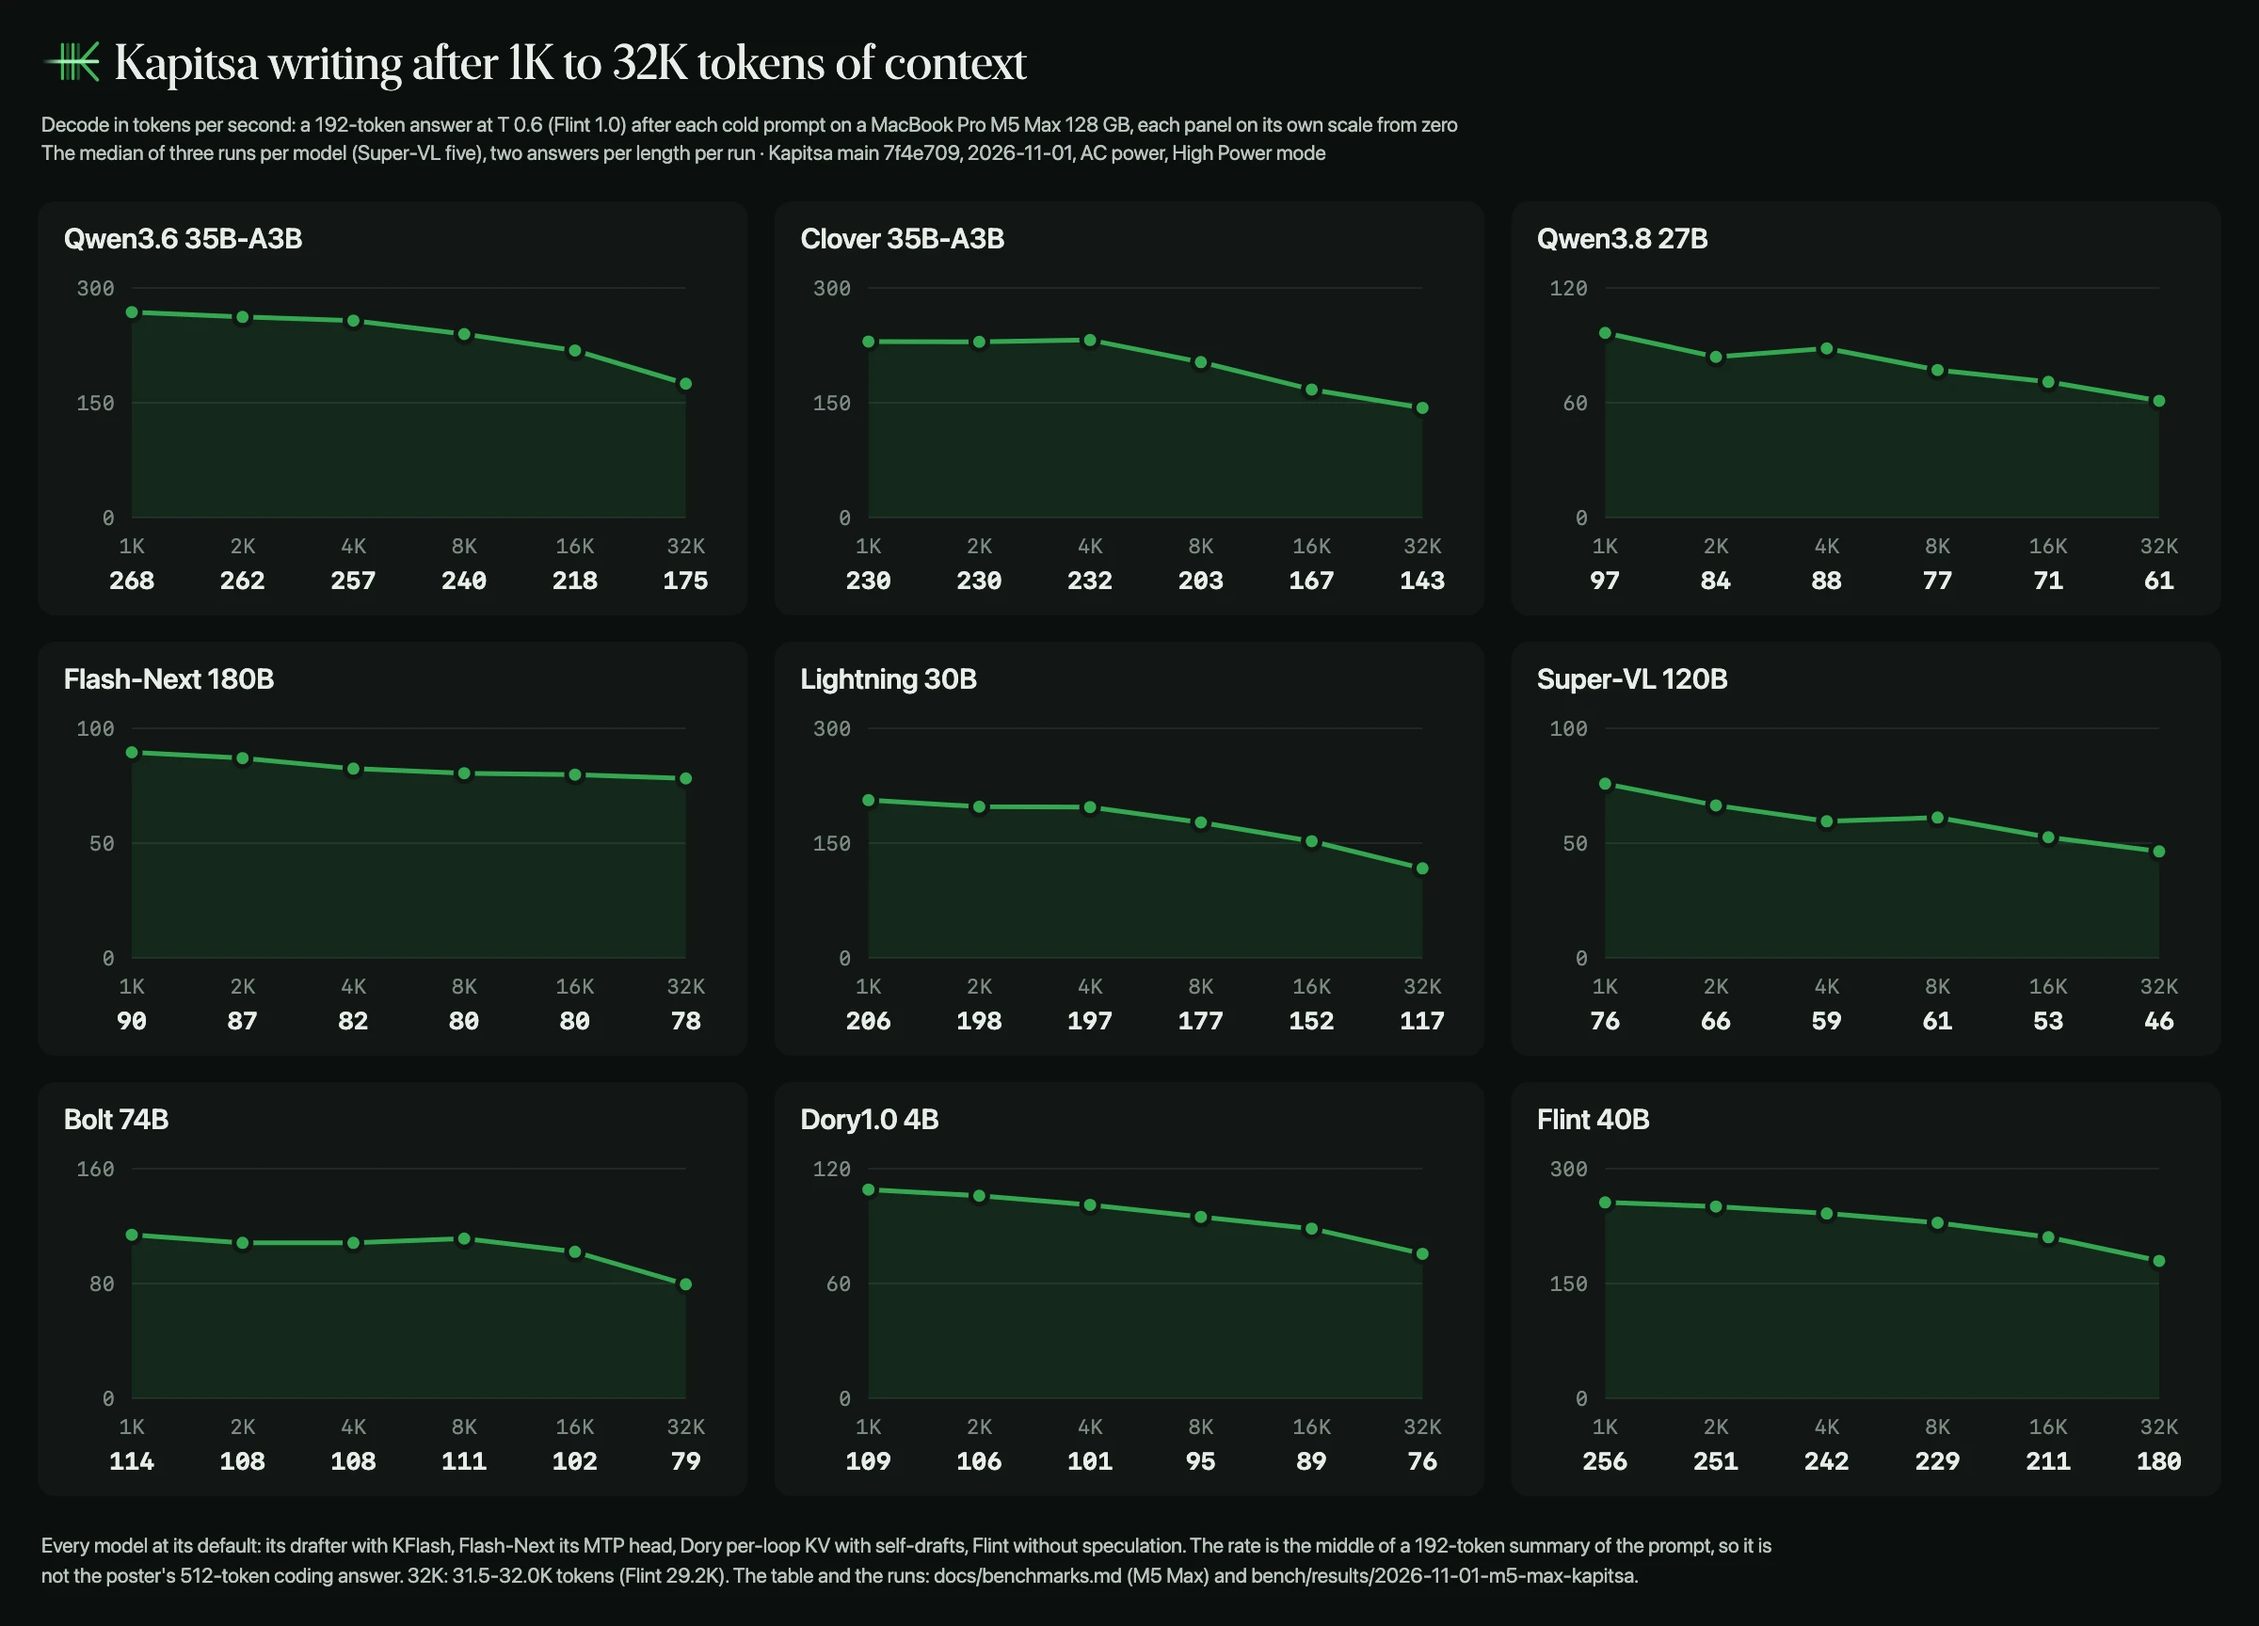
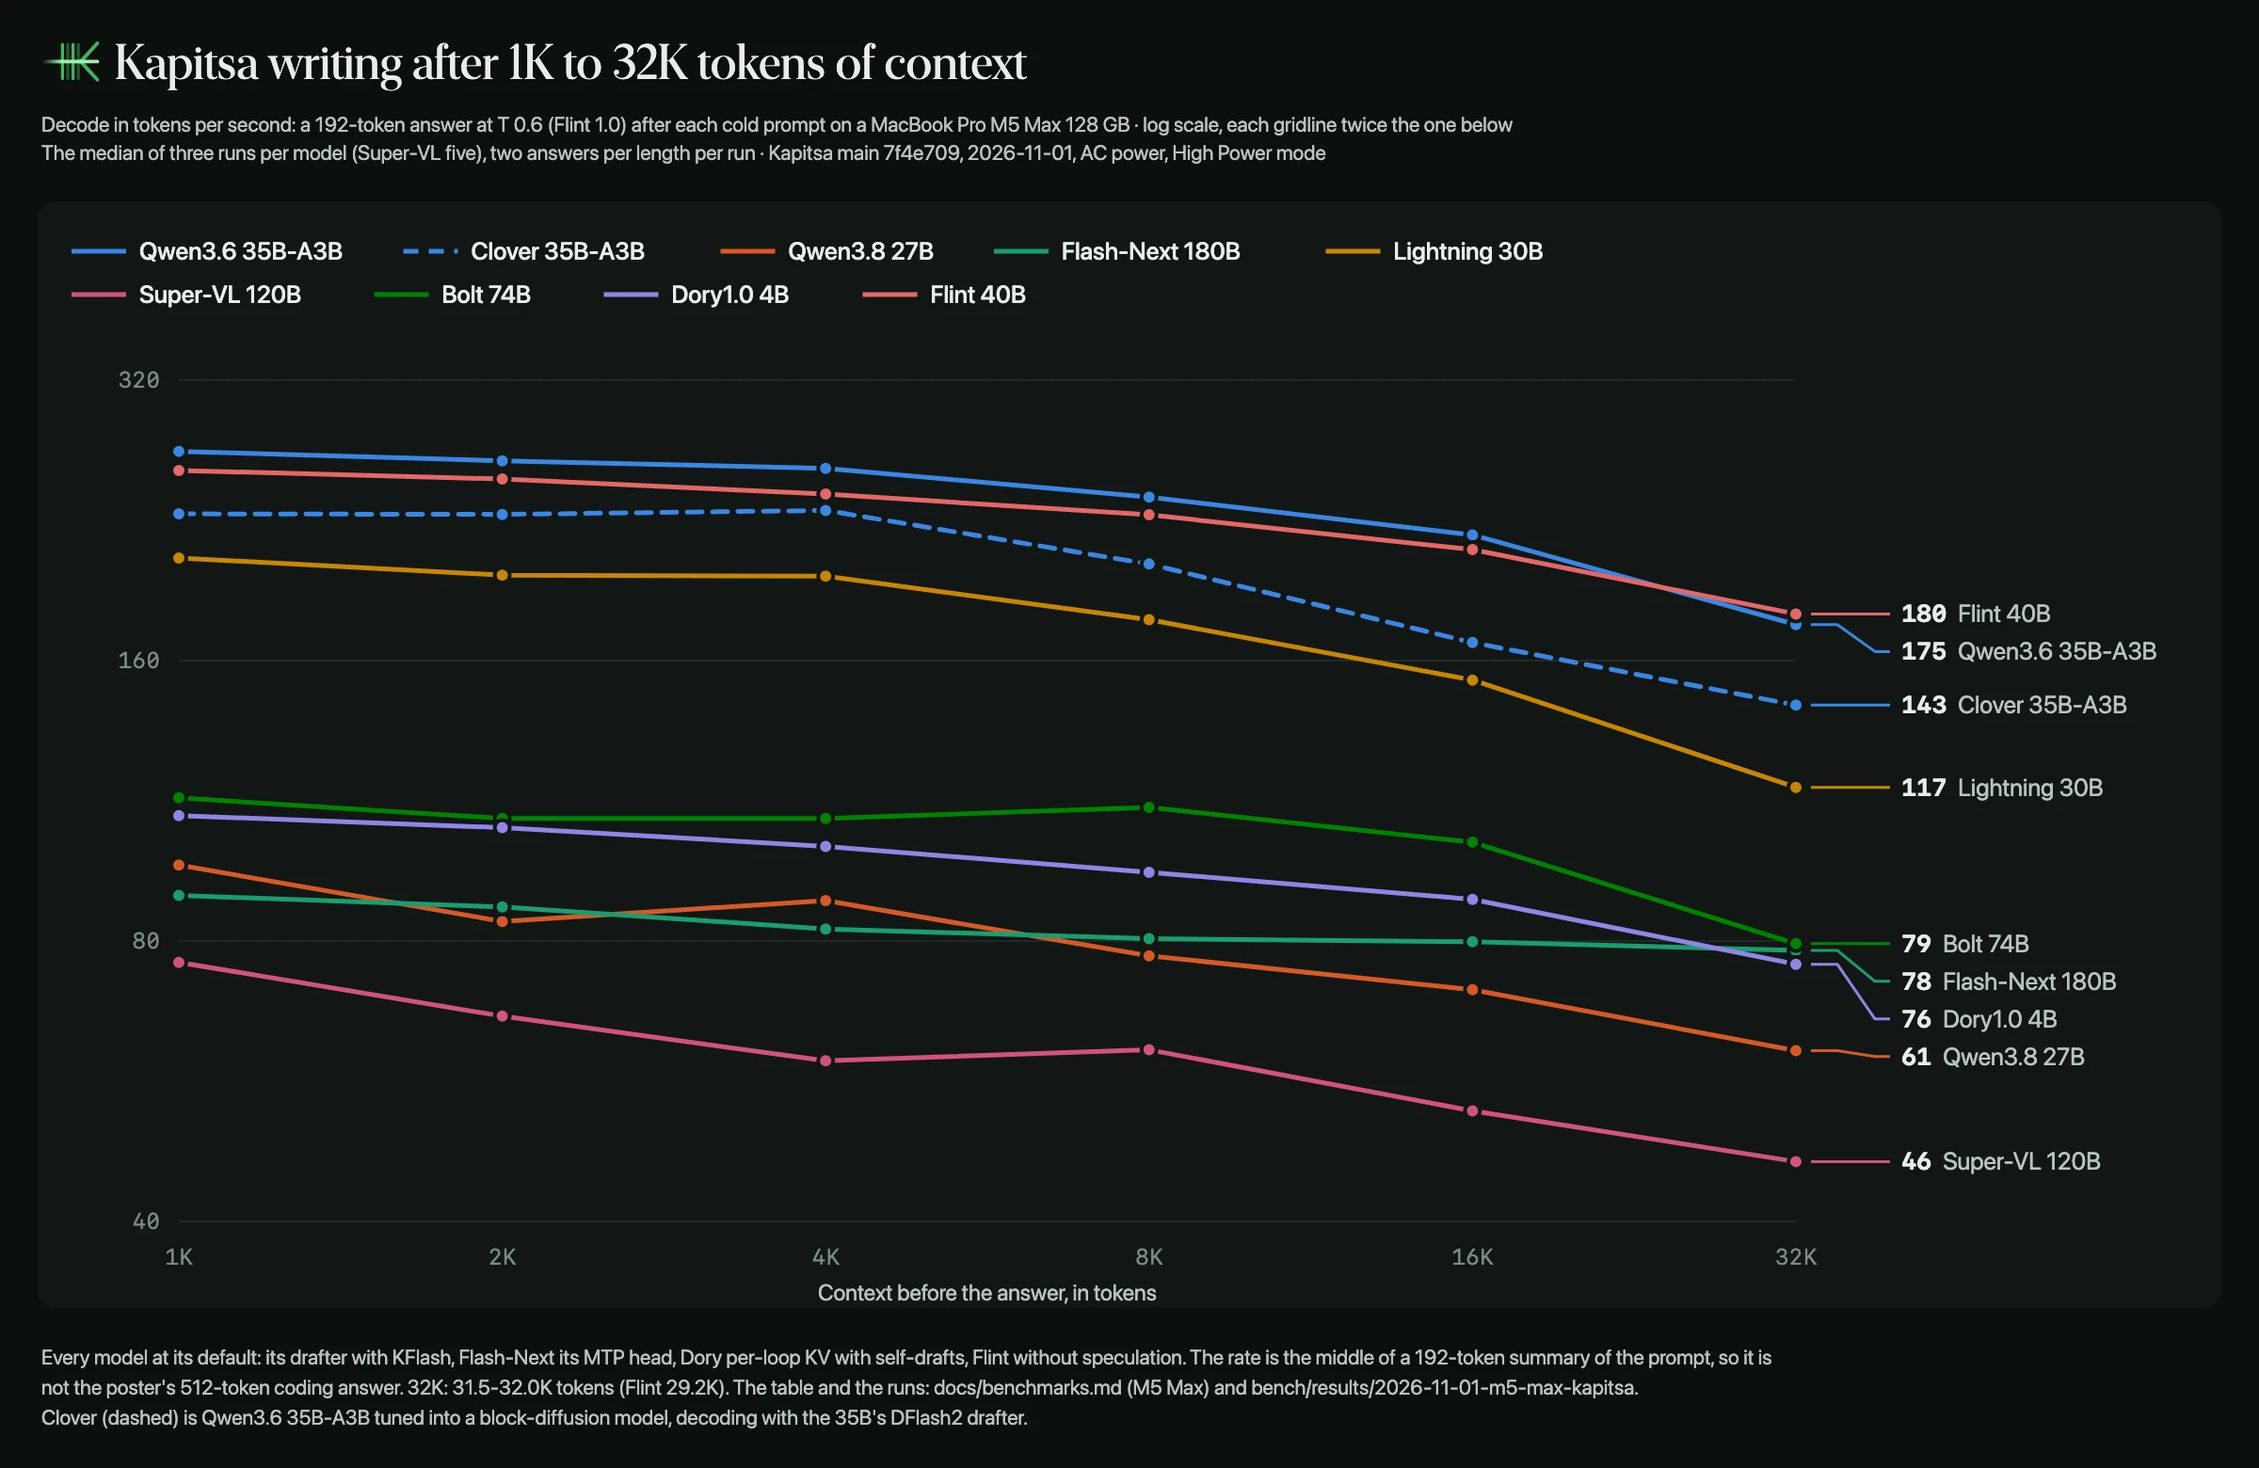
README context charts: one graph per measure, a line per model on a log scale (legend, labeled ends), instead of nine panels

diff --git a/tools/readme_images/readme_images.py b/tools/readme_images/readme_images.py
@@ -472,64 +472,87 @@ def render(html, w, h, out_webp, tmp):
 
 # ---------------------------------------------------------------- the context charts (WebP, rendered as the poster)
 
-CTX_TOP, CTX_PH, CTX_GAP, CTX_COLS = 214, 440, 28, 3   # panels' top, one panel's height, the gap, panels per row
+# the categorical series colors, in their fixed order (a model's "slot" in readme_images.json), light and dark steps
+SERIES = {"light": ["#2A78D6", "#EB6834", "#1BAF7A", "#EDA100", "#E87BA4", "#008300", "#6250D6", "#E34948"],
+          "dark": ["#3987E5", "#D95926", "#199E70", "#C98500", "#D55181", "#008300", "#9085E9", "#E66767"]}
+CTX_H, CTX_PANEL_Y, CTX_PLOT_TOP = 1560, 214, 404     # the chart's height, its panel's top, the plot's top
+CTX_LEFT, CTX_LABELS = 150, 452                       # the y axis' labels, the end labels right of the plot
+CTX_LABEL_GAP = 40                                    # the least distance between two end labels
 
 
-def nice_step(x):
-    """the smallest 1, 1.5, 2, 2.5, 3, 4, 5, 6 or 8 x 10^k at or above x"""
-    p = 10 ** math.floor(math.log10(x))
-    return next(m * p for m in (1, 1.5, 2, 2.5, 3, 4, 5, 6, 8, 10) if m * p >= x)
-
-
-def compact(v):
-    return f"{v / 1000:g}K" if v >= 1000 else f"{v:g}"
+def spread(ys, gap, lo, hi):
+    """end labels' heights: each as near its line's end as the others allow, no two closer than gap, inside lo..hi"""
+    order = sorted(range(len(ys)), key=lambda i: ys[i])
+    out = {}
+    prev = lo - gap
+    for i in order:
+        out[i] = max(ys[i], prev + gap)
+        prev = out[i]
+    nxt = hi + gap
+    for i in reversed(order):
+        out[i] = min(out[i], nxt - gap)
+        nxt = out[i]
+    return [out[i] for i in range(len(ys))]
 
 
 def context_chart(data, theme, kind):
-    """Kapitsa's prefill or decode speed by context length (data["context"]) as small multiples: a panel per model, each
-    on its own scale from zero, its values in a row under the axis; returns (html, width, height)"""
-    t = POSTER[theme]
+    """Kapitsa's prefill or decode speed by context length (data["context"]): one line per model on a log scale (each
+    gridline twice the one below), a legend above, each line's model and last value at its end; returns (html, w, h)"""
+    t, colors = POSTER[theme], SERIES[theme]
     C = data["context"]
     sizes, models, K = C["sizes"], C["models"], C[kind]
-    W = data["poster"]["size"][0]
-    pw = (W - 2 * X0 - (CTX_COLS - 1) * CTX_GAP) / CTX_COLS
-    rows = -(-len(models) // CTX_COLS)
+    ticks = K["ticks"]
+    W, H = data["poster"]["size"][0], CTX_H
+    for m in models:
+        if len(m[kind]) != len(sizes) or not ticks[0] <= min(m[kind]) <= max(m[kind]) <= ticks[-1]:
+            sys.exit(f"readme_images.json: context {m['model']} {kind}: {len(sizes)} values within {ticks[0]}-{ticks[-1]}")
     per_line = int((W - 2 * 44) / (F_FOOT * FOOT_EM))
     foot = [w for line in K["footer"] for w in textwrap.wrap(line, per_line, break_long_words=False)]
-    fy = CTX_TOP + rows * CTX_PH + (rows - 1) * CTX_GAP + FOOT_GAP
-    H = fy + len(foot) * FOOT_LINE + FOOT_PAD
+    fy = H - FOOT_PAD - len(foot) * FOOT_LINE
+    left, right = X0 + CTX_LEFT, W - X0 - CTX_LABELS
+    top, bottom = CTX_PLOT_TOP, fy - FOOT_GAP - 92
+    lo, hi = math.log2(ticks[0]), math.log2(ticks[-1])
+    y = lambda v: bottom - (bottom - top) * (math.log2(v) - lo) / (hi - lo)
+    x = lambda j: left + (right - left) * j / (len(sizes) - 1)
+    stroke = lambda m, w: (f'stroke="{colors[m["slot"]]}" stroke-width="{w}"'
+                           + (' stroke-dasharray="16 11"' if m.get("dash") else ""))
 
     o = [rect(0, 0, W, H, 0, t["bg"])]
     o.append(mark(44, 43, 62, t["mark"], "mk"))
     o.append(text(122, 84, K["title"], "serif", 52, t["ink"]))
     for i, s in enumerate(K["subtitle"]):
         o.append(text(44, 140 + 30 * i, s, "sans", F_FOOT, t["ink2"]))
+    o.append(rect(X0, CTX_PANEL_Y, W - 2 * X0, bottom + 92 - CTX_PANEL_Y, 18, t["panel"]))
+    widths = [80 + len(m["model"]) * 15.5 + 40 for m in models]   # the legend: a line key and the model, in order,
+    rows = math.ceil(sum(widths) / (W - 2 * X0 - 72))               # in rows of (nearly) equal counts
+    per_row = math.ceil(len(models) / rows)
     for i, m in enumerate(models):
-        vals = m[kind]
-        if len(vals) != len(sizes):
-            sys.exit(f"readme_images.json: context {m['model']} {kind} has {len(vals)} values for {len(sizes)} sizes")
-        px = X0 + (i % CTX_COLS) * (pw + CTX_GAP)
-        py = CTX_TOP + (i // CTX_COLS) * (CTX_PH + CTX_GAP)
-        o.append(rect(px, py, pw, CTX_PH, 18, t["panel"]))
-        o.append(text(px + 28, py + 50, m["model"], "sans-sb", 30, t["ink"]))
-        left, right, top, bottom = px + 100, px + pw - 66, py + 92, py + CTX_PH - 104
-        step = nice_step(max(vals) * 1.08 / 2)            # two gridlines above zero, the top one over every value
-        y = lambda v: bottom - (bottom - top) * v / (2 * step)
-        x = lambda j: left + (right - left) * j / (len(sizes) - 1)
-        for k in range(3):
-            o.append(f'<line x1="{num(left)}" x2="{num(right)}" y1="{num(y(k * step))}" y2="{num(y(k * step))}" '
-                     f'stroke="{t["greys"][2]}" stroke-width="2"/>')
-            o.append(text(left - 18, y(k * step) + 8, compact(k * step), "mono", 22, t["muted"], "end"))
-        pts = " ".join(f"{num(x(j))},{num(y(v))}" for j, v in enumerate(vals))
-        o.append(f'<polygon points="{num(x(0))},{num(bottom)} {pts} {num(x(len(vals) - 1))},{num(bottom)}" '
-                 f'fill="{t["kap"]}" fill-opacity="0.12"/>')
-        o.append(f'<polyline points="{pts}" fill="none" stroke="{t["kap"]}" stroke-width="5" stroke-linejoin="round" '
-                 f'stroke-linecap="round"/>')
-        for j, v in enumerate(vals):
-            o.append(f'<circle cx="{num(x(j))}" cy="{num(y(v))}" r="9" fill="{t["kap"]}" stroke="{t["panel"]}" '
-                     f'stroke-width="5"/>')
-            o.append(text(x(j), bottom + 38, sizes[j], "mono", 22, t["muted"], "middle"))
-            o.append(text(x(j), bottom + 76, f"{v:,.0f}", "mono-b", 26, t["ink"], "middle"))
+        lx = X0 + 36 + sum(widths[i - i % per_row:i])
+        ly = CTX_PANEL_Y + 62 + (i // per_row) * 46
+        o.append(f'<line x1="{num(lx)}" x2="{num(lx + 58)}" y1="{num(ly - 9)}" y2="{num(ly - 9)}" {stroke(m, 5)}/>')
+        o.append(text(lx + 72, ly, m["model"], "sans-m", 26, t["ink"]))
+    for v in ticks:                                     # gridlines and their values, then the context sizes
+        o.append(f'<line x1="{num(left)}" x2="{num(right)}" y1="{num(y(v))}" y2="{num(y(v))}" '
+                 f'stroke="{t["greys"][2]}" stroke-width="2"/>')
+        o.append(text(left - 20, y(v) + 8, compact(v), "mono", 24, t["muted"], "end"))
+    for j, s in enumerate(sizes):
+        o.append(text(x(j), bottom + 46, s, "mono", 24, t["muted"], "middle"))
+    o.append(text((left + right) / 2, bottom + 84, K["x_title"], "sans", 24, t["ink2"], "middle"))
+    for m in models:                                    # the lines, then the markers over every line
+        pts = " ".join(f"{num(x(j))},{num(y(v))}" for j, v in enumerate(m[kind]))
+        o.append(f'<polyline points="{pts}" fill="none" {stroke(m, 5)} stroke-linejoin="round" stroke-linecap="round"/>')
+    for m in models:
+        for j, v in enumerate(m[kind]):
+            o.append(f'<circle cx="{num(x(j))}" cy="{num(y(v))}" r="8" fill="{colors[m["slot"]]}" '
+                     f'stroke="{t["panel"]}" stroke-width="4"/>')
+    ends = [y(m[kind][-1]) for m in models]             # end labels, spread apart, each led back to its line's end
+    for m, ye, yl in zip(models, ends, spread(ends, CTX_LABEL_GAP, top, bottom)):
+        xe = x(len(sizes) - 1)
+        o.append(f'<polyline points="{num(xe + 16)},{num(ye)} {num(xe + 44)},{num(ye)} {num(xe + 84)},{num(yl)} '
+                 f'{num(xe + 100)},{num(yl)}" fill="none" stroke="{colors[m["slot"]]}" stroke-width="3" '
+                 f'stroke-linejoin="round"/>')
+        o.append(f'<text x="{num(xe + 112)}" y="{num(yl + 9)}" font-size="26"><tspan class="mono-b" fill="{t["ink"]}">'
+                 f'{m[kind][-1]:,.0f}</tspan><tspan class="sans" fill="{t["ink2"]}" dx="12">{escape(m["model"])}</tspan></text>')
     for i, s in enumerate(foot):
         o.append(text(44, fy + 16 + i * FOOT_LINE, s, "sans", F_FOOT, t["ink2"]))
 
@@ -538,6 +561,10 @@ def context_chart(data, theme, kind):
     html = (f'<!doctype html><html><head><meta charset="utf-8"><meta name="color-scheme" content="light">'
             f'<style>{CSS % {"f": FONTS, "bg": t["bg"]}}</style></head><body>{svg}</body></html>')
     return html, W, H
+
+
+def compact(v):
+    return f"{v / 1000:g}K" if v >= 1000 else f"{v:g}"
 
 
 def context_alt(data, kind):

diff --git a/tests/test_readme_images.py b/tests/test_readme_images.py
@@ -42,6 +42,6 @@ C = data["context"]   # the context charts: every model has a value per size, an
 for kind in ("prefill", "decode"):
     assert all(len(m[kind]) == len(C["sizes"]) for m in C["models"]), kind
     html, w, h = ri.context_chart(data, "light", kind)
-    assert html.count("<polyline") == len(C["models"]) and w == data["poster"]["size"][0], kind
+    assert html.count("<polyline") == 2 * len(C["models"]) and w == data["poster"]["size"][0], kind  # line, leader
     assert ri.context_alt(data, kind).startswith(C[kind]["alt"] + ": " + C["models"][0]["model"]), kind
 print(f"test_readme_images: ok ({n} Kapitsa cells)")

diff --git a/README.md b/README.md
@@ -38,16 +38,16 @@ Kapitsa has the fastest decode in 33 of the 38 model and Mac pairs measured agai
 
 The poster's numbers, and the models it leaves out, are in each Mac's table under [Models](#models). Every recorded run, with its Mac, model, prefill and decode speed, is in the [benchmark table](bench/README.md). Measure your Mac: `kapitsa bench --submit` adds it to the [community results](bench/community/RESULTS.md). Another engine faster on your Mac? `kapitsa bench compare` ranks every engine you have installed, and `--report` writes a Markdown report.
 
-How Kapitsa's speed holds from 1K to 32K tokens of context, every model on the M5 Max (each panel on its own scale; the [table](docs/benchmarks.md#m5-max)):
+How Kapitsa's speed holds from 1K to 32K tokens of context, every model on the M5 Max (log scale; the [table](docs/benchmarks.md#m5-max)):
 
 <picture>
   <source media="(prefers-color-scheme: dark)" srcset="docs/assets/context-prefill-dark.webp">
-  <img alt="Kapitsa's prefill speed in tokens per second on a MacBook Pro M5 Max, from 1K- to 32K-token prompts, one panel per model: Qwen3.6 35B-A3B 4,662 at 1K to 4,015 at 32K; Clover 35B-A3B 4,572 at 1K to 3,788 at 32K; Qwen3.8 27B 672 at 1K to 762 at 32K; Flash-Next 180B 1,618 at 1K to 1,463 at 32K; Lightning 30B 5,394 at 1K to 4,790 at 32K; Super-VL 120B 941 at 1K to 1,105 at 32K; Bolt 74B 907 at 1K to 1,076 at 32K; Dory1.0 4B 2,414 at 1K to 1,800 at 32K; Flint 40B 4,280 at 1K to 3,972 at 32K." src="docs/assets/context-prefill-light.webp">
+  <img alt="Kapitsa's prefill speed in tokens per second on a MacBook Pro M5 Max, from 1K- to 32K-token prompts, one line per model: Qwen3.6 35B-A3B 4,662 at 1K to 4,015 at 32K; Clover 35B-A3B 4,572 at 1K to 3,788 at 32K; Qwen3.8 27B 672 at 1K to 762 at 32K; Flash-Next 180B 1,618 at 1K to 1,463 at 32K; Lightning 30B 5,394 at 1K to 4,790 at 32K; Super-VL 120B 941 at 1K to 1,105 at 32K; Bolt 74B 907 at 1K to 1,076 at 32K; Dory1.0 4B 2,414 at 1K to 1,800 at 32K; Flint 40B 4,280 at 1K to 3,972 at 32K." src="docs/assets/context-prefill-light.webp">
 </picture>
 
 <picture>
   <source media="(prefers-color-scheme: dark)" srcset="docs/assets/context-decode-dark.webp">
-  <img alt="Kapitsa's decode speed in tokens per second on a MacBook Pro M5 Max after 1K to 32K tokens of context, one panel per model: Qwen3.6 35B-A3B 268 at 1K to 175 at 32K; Clover 35B-A3B 230 at 1K to 143 at 32K; Qwen3.8 27B 97 at 1K to 61 at 32K; Flash-Next 180B 90 at 1K to 78 at 32K; Lightning 30B 206 at 1K to 117 at 32K; Super-VL 120B 76 at 1K to 46 at 32K; Bolt 74B 114 at 1K to 79 at 32K; Dory1.0 4B 109 at 1K to 76 at 32K; Flint 40B 256 at 1K to 180 at 32K." src="docs/assets/context-decode-light.webp">
+  <img alt="Kapitsa's decode speed in tokens per second on a MacBook Pro M5 Max after 1K to 32K tokens of context, one line per model: Qwen3.6 35B-A3B 268 at 1K to 175 at 32K; Clover 35B-A3B 230 at 1K to 143 at 32K; Qwen3.8 27B 97 at 1K to 61 at 32K; Flash-Next 180B 90 at 1K to 78 at 32K; Lightning 30B 206 at 1K to 117 at 32K; Super-VL 120B 76 at 1K to 46 at 32K; Bolt 74B 114 at 1K to 79 at 32K; Dory1.0 4B 109 at 1K to 76 at 32K; Flint 40B 256 at 1K to 180 at 32K." src="docs/assets/context-decode-light.webp">
 </picture>
 
 ## 🔥 What's new
